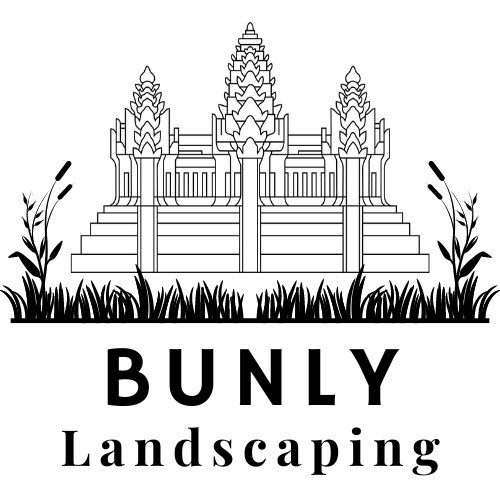
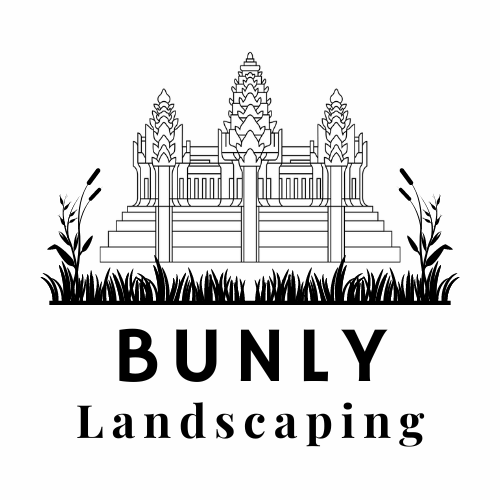
completed nav landing 2 sections and footer

Changed region(s): [[0.0, 0.03, 1.0, 0.96]]

diff --git a/style.css b/style.css
@@ -19,19 +19,43 @@ body {
 img {
   width: 100%;
   height: 100%;
-  max-height: 100vh;
 }
 
 .logo {
   width: 200px;
-  height: 220px;
-  padding-top: 32px;
+  height: 190px;
+  margin-left: 24px;
+}
+
+h1 {
+  font-size: 80px;
+}
+
+.btn {
+  background-color: #31572c;
+  color: white;
+  padding: 12px 24px;
+  font-size: 20px;
+  border-radius: 4px;
+  border: none;
 }
 
 .section__title {
   font-size: 40px;
   text-align: center;
   padding-bottom: 24px;
+}
+
+.row {
+  width: 100%;
+  max-width: 1200px;
+  margin: 0 auto;
+}
+
+.row__column {
+  display: flex;
+  flex-direction: column;
+  align-items: center;
 }
 
 /* 
@@ -65,6 +89,8 @@ li {
   justify-content: space-between;
   align-items: center;
   margin: 0 auto;
+  overflow: hidden;
+  background-color: #31572c;
 }
 
 .nav__links {
@@ -73,11 +99,11 @@ li {
   font-size: 20px;
   font-weight: bold;
   padding: 8px;
-  color: aqua;
 }
 
 .nav__link {
-  padding-right: 24px;
+  padding-right: 32px;
+  color: white
 }
 
 /* 
@@ -87,14 +113,24 @@ HEADER
 */
 
 .header__container {
+  background-color: #f2f2f2;
   width: 100%;
   display: flex;
   justify-content: center;
   align-items: center;
+  height: 600px;
 }
 
 .header__description {
   padding: 0 24px;
+  width: 100%;
+  max-width: 500px;
+  line-height: 88px;
+}
+
+.header__img--logo {
+  margin: 0 auto;
+  padding: 24px 24px;
 }
 
 /* 
@@ -117,3 +153,34 @@ GALLERY
 
 .gallery__img {
   padding: 0 20px;}
+
+
+/* 
+
+FOOTER
+
+*/
+
+footer {
+  background-color: #31572c;
+}
+
+.footer__logo {
+  width: 100px;
+  height: 90px;
+}
+
+.footer__link,
+.footer__copyright {
+  color: #fff;
+  transition: all 300ms ease;
+}
+
+.footer__list {
+  margin: 20px 0 24px 0;
+}
+
+.footer__link {
+  padding: 0 8px;
+}
+

diff --git a/index.html b/index.html
@@ -28,11 +28,12 @@
       <header>
         <div class="header__container">
           <div class="header__description">
+            <h1>Edmonton Landscape Management</h1>
             <h2>Send us an email for a free estimate</h2>
             <button class="btn">Email</button>
           </div>
           <figure class="header__img--wrapper">
-            <img src="./assets/Bunly_Horizontal.png" alt="" class="" />
+            <img src="./assets/Bunly_Horizontal.png" alt="" class="header__img--logo" />
           </figure>
         </div>
       </header>
@@ -102,6 +103,21 @@
       <section id="company__policy"></section>
     </main>
 
-    <footer id="end"></footer>
+    <footer id="end">
+      <div class="container">
+        <div class="row row__column">
+          <a href="#">
+            <figure class="footer__logo">
+              <img src="./assets/Bunly.png" alt="" class="footer__logo">
+            </figure>
+          </a>
+          <div class="footer__list">
+            <a href="" class="footer__link">Home</a>
+            <a href="" class="footer__link">Contact</a>
+          </div>
+          <div class="footer__copyright">&copy; 2023 Bunly Landscaping</div>
+        </div>
+      </div>
+    </footer>
   </body>
 </html>
